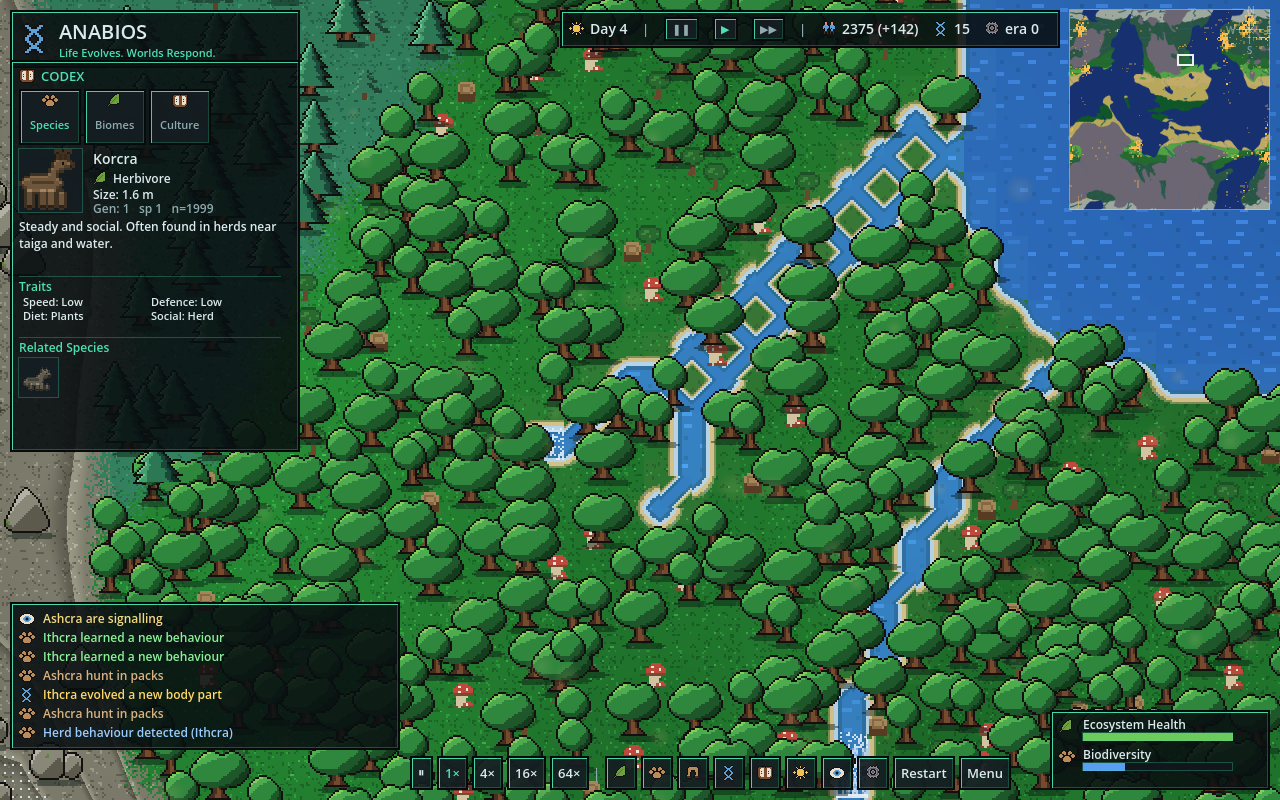
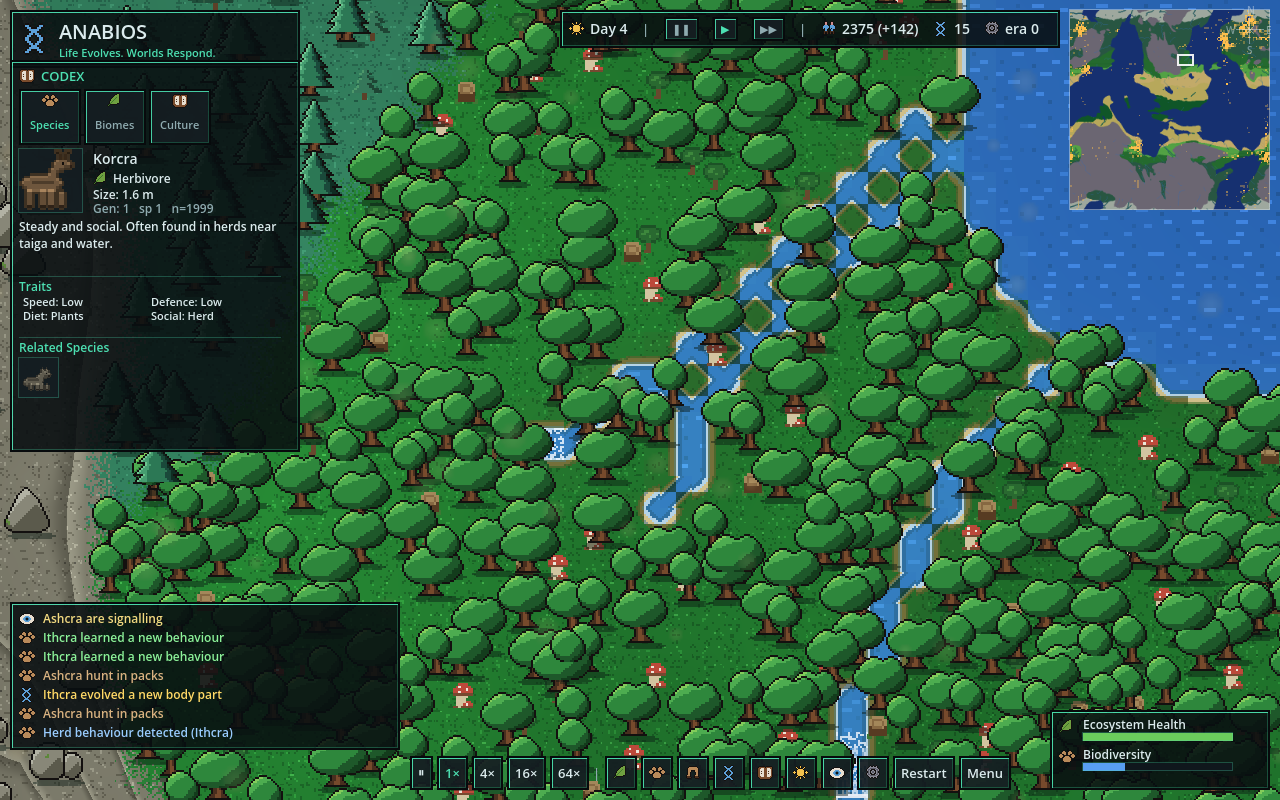
viewer: rivers run between mud banks, not beaches
A land fragment whose water neighbour is a narrow river cell (two or
more land neighbours of its own) takes a mossy mud bank instead of the
lake-shore sand, and the autotile's sand bands darken to match, so a
stream through the forest no longer reads as a desert road with a beach
on both sides. Lake and sea shores keep their beach.

Claude-Session: https://claude.ai/code/session_019kbTtZKC2VJBPY6SALU64h

diff --git a/gallery/README.md b/gallery/README.md
@@ -53,7 +53,7 @@ pins an agent in the unit card.
 | scale-trade-hubs-t600-roads-2x.png | `trade-hubs` t600 2× at (1060, 298) | Dirt roads worn along the caravan routes from the market square through the woods, stopping at the water. |
 | scale-trade-hubs-t600-market-4x.png | `trade-hubs` t600 4× at (1060, 298) | A trade hub as a market square in the woods with its roads leading off, a snow patch with an ordered-dither edge on the outcrop behind it. |
 | scale-riverlands-t291-relief-2x.png | `riverlands` t291 2× | Rivers with waterfalls on their steep stretches, contour-ledged mountains in warm olive stone with a dithered snow line, forests mixing three oaks, clutter on the grass. |
-| scale-riverlands-t291-river-4x.png | `riverlands` t291 4× at (2367, 1017) | A one-cell river running diagonally through the oaks as one stream: the diagonal coast tiles carry a channel instead of pinching the cells into beads. |
+| scale-riverlands-t291-river-4x.png | `riverlands` t291 4× at (2367, 1017) | A one-cell river running diagonally through the oaks as one stream between mud banks: the diagonal coast tiles carry a channel instead of pinching the cells into beads, and a river shore is bank, not beach. |
 | scale-riverlands-t291-clutter-4x.png | `riverlands` t291 4× at (2500, 1200) | Flowers, tufts, mushrooms and stumps at 4×. |
 | scale-riverlands-t291-lake-4x.png | `riverlands` t291 4× at (2427, 1357) | A desert lake: one flat blue, sparse strokes, foam and beach from the coast autotile. |
 | scale-inventions-t2620-coast-2x.png | `inventions` t2620 2× (`ANABIOS_CODEX_TAB=1`) | Hominin bands along a coast. |
